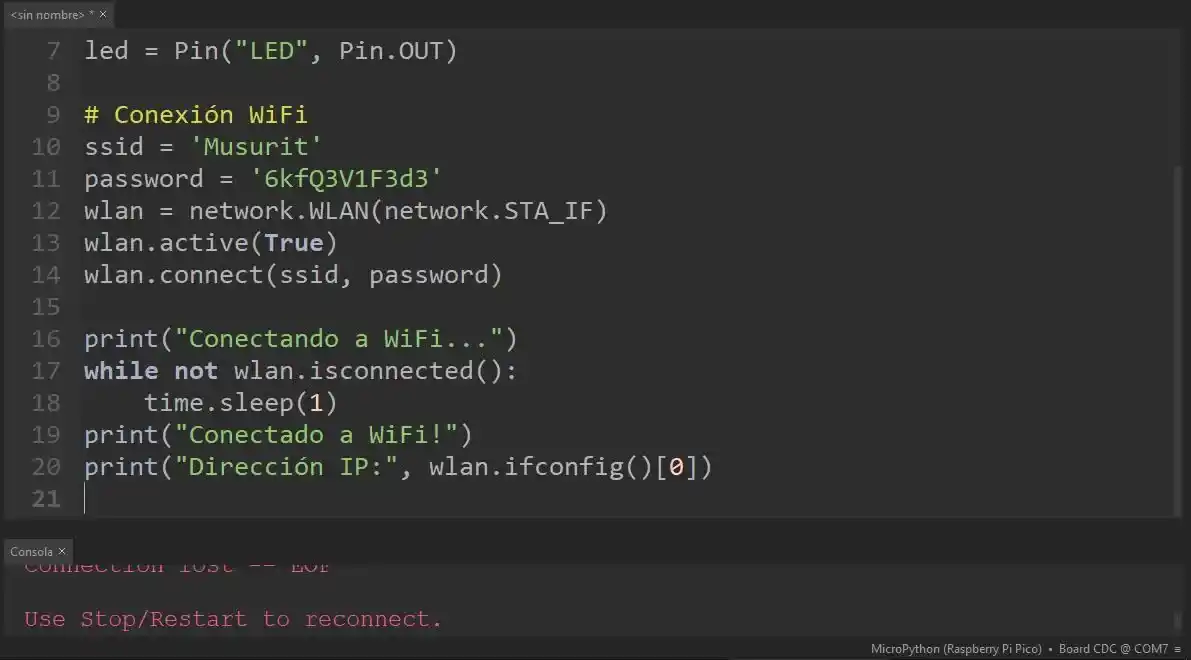
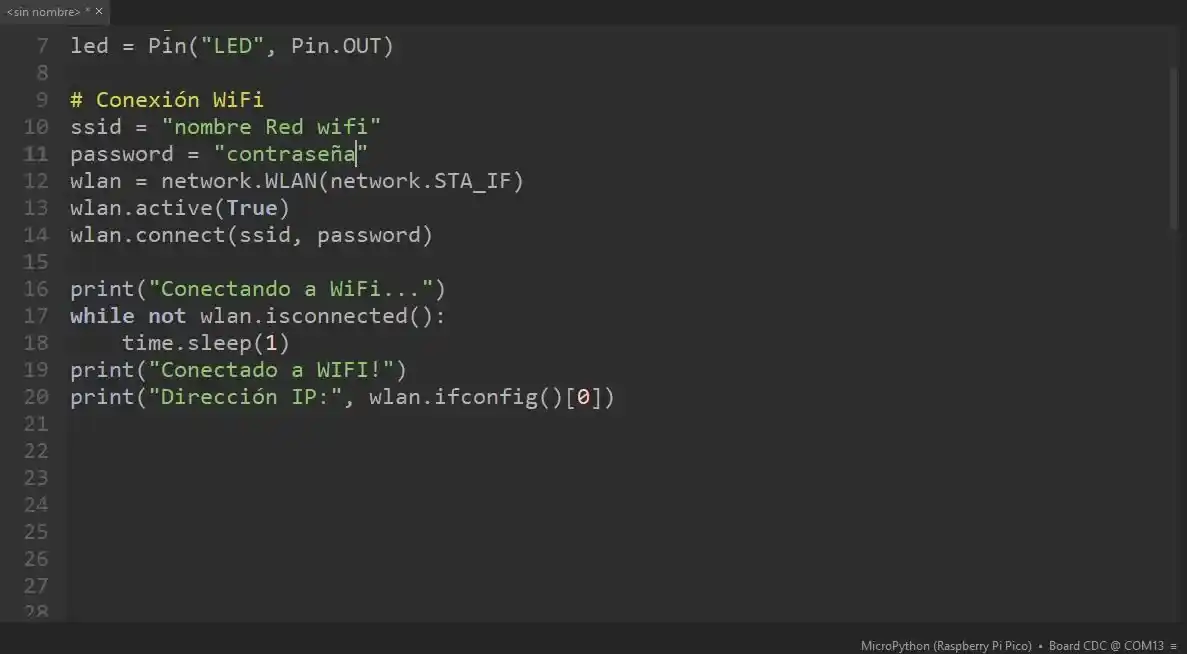
Change date on class loading2

diff --git a/src/components/MicropythonClass/MicropythonClass5.js b/src/components/MicropythonClass/MicropythonClass5.js
@@ -6,7 +6,7 @@ import { colorPrimaryMicropython } from '../../colors'
 import useScrollAnimation from '../../useScrollAnimation'
 import { CopyButton } from '../CopyButton/CopyButton'
 import { class4MCode, class5MCode } from './MicropythonClassCode'
-import { class3Code, class4Code, class5Code } from '../Class/classCode'
+import { class4Code } from '../Class/classCode'
 
 const MicropythonClass5 = () => {
 
@@ -155,13 +155,25 @@ const MicropythonClass5 = () => {
                                 </button>
                                 <div id="a4" className="accordion-collapse collapse bg-dark" >
                                     <div className="accordion-body text-light bg-dark ">
-                                        <p className="text-break mx-auto w-75">
-                                            Además de tener métodos para utilizar en listas, también tenemos funciones que nos ayudan a la hora de manipular datos.:
-                                        </p>
-                                        <h3 className="text-break w-75 mx-auto">len()</h3>
-                                        <p className="text-break mx-auto w-75">len() te devuelve la cantidad de elementos que contiene la lista.</p>
-                                        <CopyButton code={class5Code[12]} />
-                                        <img className="w-75 d-block mx-auto mb-4 border-content" alt="" src="../../img/class5/list13.webp"></img>
+                                        <h3 className="text-break w-75 mx-auto">Paso 1 - Importación de Librerias</h3>
+                                        <ul className="text-break mx-auto w-75 list-unstyled">
+                                            <li><p className="text-break mx-auto w-75"><span className="fw-bold">import network: </span>Permite gestionar la conexión WiFi de la Raspberry Pi Pico W.</p></li>
+                                        </ul>
+                                        <CopyButton code={class5MCode[0]} />
+                                        <img className="w-75 d-block mx-auto mb-4 border-content" alt="" src="../../img/class5Micropython/wifi1.webp"></img>
+                                        <h3 className="text-break w-75 mx-auto">Paso 2 - Activación del módulo wifi</h3>
+                                        <p className="text-break mx-auto w-75">Luego para inicializar la interfaz de la red wifi debemos utilizar network.WLAN(network.STA_IF) y luego indicarle que lo queremos activar(active(true))</p>
+                                        <CopyButton code={class5MCode[1]} />
+                                        <img className="w-75 d-block mx-auto mb-4 border-content" alt="" src="../../img/class5Micropython/wifi2.webp"></img>
+                                        <h3 className="text-break w-75 mx-auto">Paso 3 - Conexión de red wifi</h3>
+                                        <p className="text-break mx-auto w-75">Debemos hacer la conexión de la red wifi indicandole el nombre de la red wifi junto a la contraseña con el método connect().</p>
+                                        <CopyButton code={class5MCode[4]} />
+                                        <img className="w-75 d-block mx-auto mb-4 border-content" alt="" src="../../img/class5Micropython/wificonect6.webp"></img>
+                                        <h3 className="text-break w-75 mx-auto">Paso 4 - Verificación de conección a red wifi(IP)</h3>
+                                        <p className="text-break mx-auto w-75">Para saber si realmente hizo una conexion válida debemos crear un bucle while utilizando el método isconnected() para saber si está conectado o no, podemos utilizar la libreria time para esperar 1 segundo y volver a consultar la conexión.</p>
+                                        <p className="text-break mx-auto w-75">Si queremos saber la IP de nuestro dispositivo, debemos utilizar el método ifconfig()[0].</p>
+                                        <CopyButton code={class5MCode[5]} />
+                                        <img className="w-75 d-block mx-auto mb-4 border-content" alt="" src="../../img/class5Micropython/wificonect7.webp"></img>
                                     </div>
                                 </div>
                             </div>
@@ -179,14 +191,14 @@ const MicropythonClass5 = () => {
                                             <li><p className="text-break mx-auto w-75"><span className="fw-bold">import time: </span>Permite realizar pausas en el código.</p></li>
                                             <li><p className="text-break mx-auto w-75"><span className="fw-bold">from machine import Pin: </span>Permite controlar los pines GPIO de la Raspberry Pi Pico W, como el LED.</p></li>
                                         </ul>
-                                        <CopyButton code={class3Code[9]} />
+                                        <CopyButton code={class5MCode[6]} />
                                         <img className="w-75 d-block mx-auto mt-4 border-content" alt="" src="../../img/class5Micropython/wifipage.webp"></img>
                                         <h3 className="text-break mx-auto w-75 mt-4">Paso 2 - Configuración de puerto de entrada/salida(Raspberry pi pico)</h3>
                                         <p className="text-break mx-auto w-75 mt-4">En este caso simple voy a utilizar el Led interno de la raspberry pi pico para manipularlo.</p>
-                                        <CopyButton code={class3Code[10]} />
+                                        <CopyButton code={class5MCode[7]} />
                                         <img className="w-75 d-block mx-auto mt-4 border-content" alt="" src="../../img/class5Micropython/wifipage2.webp"></img>
                                         <h3 className="text-break mx-auto w-75 mt-4">Paso 3 - Conexion WIFI</h3>
-                                        <CopyButton code={class3Code[10]} />
+                                        <CopyButton code={class5MCode[8]} />
                                         <img className="w-75 d-block mx-auto mt-4 border-content" alt="" src="../../img/class5Micropython/wifipage3.webp"></img>
                                         <h3 className="text-break mx-auto w-75 mt-4">Paso 4 - Crear página web de control</h3>
                                         <ul className="text-break mx-auto w-75 list-unstyled">
@@ -195,15 +207,15 @@ const MicropythonClass5 = () => {
                                             <li><p className="text-break mx-auto w-75"><span className="fw-bold">Etiqueta a: </span>La etiqueta 'a' se utiliza para redireccionar a una ruta http.</p></li>
                                             <li><p className="text-break mx-auto w-75"><span className="fw-bold">Etiqueta Button: </span>Permite realizar la acción de un botón.</p></li>
                                         </ul>
-                                        <CopyButton code={class3Code[10]} />
+                                        <CopyButton code={class5MCode[9]} />
                                         <img className="w-75 d-block mx-auto mt-4 border-content" alt="" src="../../img/class5Micropython/wifipage4.webp"></img>
                                         <h3 className="text-break mx-auto w-75 mt-4">Paso 5 - Configuración del servidor</h3>
                                         <p className="text-break mx-auto w-75 mt-4">En este caso simple voy a utilizar el Led interno de la raspberry pi pico para manipularlo.</p>
-                                        <CopyButton code={class3Code[10]} />
+                                        <CopyButton code={class5MCode[10]} />
                                         <img className="w-75 d-block mx-auto mt-4 border-content" alt="" src="../../img/class5Micropython/wifipage5.webp"></img>
                                         <h3 className="text-break mx-auto w-75 mt-4">Paso 6 - Bucle principal para manejar solicitudes HTTP</h3>
                                         <p className="text-break mx-auto w-75 mt-4">En este caso simple voy a utilizar el Led interno de la raspberry pi pico para manipularlo.</p>
-                                        <CopyButton code={class3Code[10]} />
+                                        <CopyButton code={class5MCode[11]} />
                                         <img className="w-75 d-block mx-auto mt-4 border-content" alt="" src="../../img/class5Micropython/wifipage6.webp"></img>
                                     </div>
                                 </div>
@@ -211,41 +223,39 @@ const MicropythonClass5 = () => {
                             <div className="accordion accordion-flush w-100 mx-auto mt-4" id="accordionFlushExample">
                                 <div id="element7" className={`accordion-item animated-left ${elementVisibility.element7 ? 'slide-left' : ''}`} style={{ background: colorPrimaryMicropython, borderRadius: "40px" }} >
                                     <button className="accordion-button collapsed  bg-transparent text-light" type="button" data-bs-toggle="collapse" data-bs-target="#a6" aria-expanded="false" aria-controls="flush-collapseOne">
-                                        <h2>PWM</h2>
+                                        <h2>Utilización de Apis en raspberry pi pico w</h2>
                                     </button>
                                     <div id="a6" className="accordion-collapse collapse" >
                                         <div className="accordion-body text-light bg-dark ">
-                                            <h3 className="mt-7 text-break mx-auto w-75 fw-bold">¿Qué es PWM?</h3>
-                                            <p className="text-break mx-auto w-75 mt-4">PWM (Modulación por Ancho de Pulso) es una técnica utilizada para controlar la potencia entregada a dispositivos electrónicos. En lugar de aplicar un voltaje constante, PWM alterna rápidamente entre encendido y apagado, lo que permite simular un voltaje variable.</p>
-                                            <p className="text-break mx-auto w-75 mt-4">En PWM solo tenemos 2 estados, HIGH(3.3V - alto) y LOW(0V - bajo).</p>
-                                            <p className="text-break mx-auto w-75 mt-4">Dentro del gráfico veremos también "ciclo de trabajo"(duty cycle), es un concepto fundamental en PWM (modulación por ancho de pulso), que se refiere al porcentaje de tiempo que una señal está en estado alto (encendida) durante un ciclo completo de la señal.</p>
-                                            <p className="text-break mx-auto w-75 mt-4">El valor máximo del ciclo de trabajo(duty cycle) que tiene internamente un potenciometro es de "65535", esto es porque está en 16bits y la cantidad de valores que puede procesar son 65536(es uno más porque se incluye el 0 como valor)</p>
-                                            <p className="text-break mx-auto w-75 mt-4">Ejemplo: Si una señal PWM tiene un duty cycle del 50%(65535/2 = 32768), significa que la señal está activa (en alto) el 50% del tiempo y en bajo el otro 50%, Si el duty cycle es del 25% (65535/4 = 16383), la señal estará activa solo el 25% del tiempo y en bajo el 75%.</p>
-                                            <img className="w-75 mx-auto d-block border-content" alt="" src="../../img/class4Micropython/PWM.webp"></img>
-                                            <h3 className="mt-7 text-break mx-auto w-75 fw-bold">Frecuencia</h3>
-                                            <p className="text-break mx-auto w-75 mt-4">La frecuencia en el contexto de PWM (modulación por ancho de pulso) se refiere a la cantidad de ciclos completos que ocurren en un segundo. Se mide en hercios (Hz), donde 1 Hz equivale a un ciclo completo por segundo.</p>
-                                            <p className="text-break mx-auto w-75 mt-4">Ejemplo: Si la frecuencia es 1 Hz, entonces el ciclo completo (tiempo en alto más tiempo en bajo) ocurre una vez por segundo, Si la frecuencia es 1000 Hz (1 kHz), el ciclo completo ocurre 1000 veces en un segundo.</p>
-                                            <img className="w-75 mx-auto d-block border-content" alt="" src="../../img/class4Micropython/Hz.webp"></img>
-                                            <h3 className="mt-7 text-break mx-auto w-75 fw-bold">Relación entre Frecuencia y Duty Cycle</h3>
-                                            <ul className="text-break mx-auto w-75 list-unstyled"><span>Es importante entender que, aunque el duty cycle y la frecuencia son conceptos distintos, ambos determinan el comportamiento de la señal PWM:</span>
-                                                <li><p className="text-break mx-auto w-75"><span className="fw-bold">Duty cycle: </span>controla el tiempo que la señal está activa dentro de cada ciclo.</p></li>
-                                                <li><p className="text-break mx-auto w-75"><span className="fw-bold">Frecuencia: </span>determina cuántos ciclos ocurren por segundo.</p></li>
-                                            </ul>
-                                            <p className="text-break mx-auto w-75 mt-4">Por ejemplo, si tienes una señal PWM con una frecuencia de 1 kHz (1000 ciclos por segundo) y un duty cycle del 50%, la señal estará en estado alto durante 0.5 ms (milisegundos) y en estado bajo durante otros 0.5 ms en cada ciclo. Si aumentas la frecuencia, los ciclos serán más rápidos, pero el tiempo que la señal permanece en alto y bajo por ciclo también será menor.</p>
-                                            <h3 className="mt-7 text-break mx-auto w-75 fw-bold">Importancia de la frecuencia en PWM</h3>
-                                            <ul className="text-break mx-auto w-75 list-unstyled"><span>La frecuencia del PWM es clave en aplicaciones como el control de motores y el brillo de LEDs:</span>
-                                                <li><p className="text-break mx-auto w-75"><span className="fw-bold">Motores eléctricos: </span>Si la frecuencia es demasiado baja, el motor puede vibrar o producir un zumbido debido a la conmutación lenta. Por eso, frecuencias más altas (a menudo en el rango de kHz) se usan para controlar motores de manera más suave.</p></li>
-                                                <li><p className="text-break mx-auto w-75"><span className="fw-bold">Control de brillo de LEDs: </span> Si la frecuencia es baja, el LED puede parpadear perceptiblemente, lo que es indeseable. A frecuencias más altas, el parpadeo se vuelve imperceptible, logrando una variación suave en el brillo.</p></li>
-                                            </ul>
+                                            <h3 className="mt-7 text-break mx-auto w-75 fw-bold">Paso 1 conexión a la red wifi</h3>
+                                            <p className="text-break mx-auto w-75 mt-4">Como hicimos en los temas anteriores tenemos que activar el módulo WIFI de la raspberry pi pico y luego conectarnos a la red wifi</p>
+                                            <CopyButton code={class5MCode[5]} />
+                                            <img className="w-75 d-block mx-auto mb-4 border-content" alt="" src="../../img/class5Micropython/wificonect7.webp"></img>
+                                            <h3 className="mt-7 text-break mx-auto w-75 fw-bold">Paso 2 importar urequests</h3>
+                                            <p className="text-break mx-auto w-75 mt-4">La importación de la libreria urequests nos servirá para poder hacer una solicitud HTTP</p>
+                                            <CopyButton code={class5MCode[12]} />
+                                            <img className="w-75 d-block mx-auto mb-4 border-content" alt="" src="../../img/class5Micropython/apiweather.webp"></img>
+                                            <h3 className="mt-7 text-break mx-auto w-75 fw-bold">Paso 3 Realizar solicitud HTTP</h3>
+                                            <p className="text-break mx-auto w-75 mt-4">Para poder hacer una solicitud HTTP debemos utilizar el método .get() dentro del parámetro ingresar la URL que queramos solicitar.</p>
+                                            <p className="text-break mx-auto w-75 mt-4">Dentro de la URL ("https://api.open-meteo.com/v1/forecast?latitude=35.68&longitude=139.69&current_weather=true") en "latitude" y "Longitude" debemos indicar la ubicación especifica donde queramos saber la t°.</p>
+                                            <CopyButton code={class5MCode[13]} />
+                                            <img className="w-75 d-block mx-auto mb-4 border-content" alt="" src="../../img/class5Micropython/apiweather2.webp"></img>
+                                            <h3 className="mt-7 text-break mx-auto w-75 fw-bold">Paso 4 Consumo de Api</h3>
+                                            <p className="text-break mx-auto w-75 mt-4">Para saber si la solicitud fué exitosa, debemos utilizar el método .status_code(), si este método devuelve 200, quiere indicar que el pedido fué exitoso.</p>
+                                            <p className="text-break mx-auto w-75 mt-4">Luego este pedido lo debemos transformar en un formato que podamos manipular, en este caso es un formato JSON, para transformarlo debemos utilizar el método .JSON()</p>
+                                            <p className="text-break mx-auto w-75 mt-4">Esta solicitud queda abierto cuando se llama una solicitud, para finalizar el llamado debemos utilizar el método .close()</p>
+                                            <CopyButton code={class5MCode[14]} />
+                                            <img className="w-75 d-block mx-auto mb-4 border-content" alt="" src="../../img/class5Micropython/apiweather3.webp"></img>
                                         </div>
                                     </div>
                                 </div>
                                 <div id="element8" className={`accordion-item animated-left mt-4 ${elementVisibility.element8 ? 'slide-left' : ''}`} style={{ background: colorPrimaryMicropython, borderRadius: "40px" }} >
                                     <button className="accordion-button collapsed  bg-transparent text-light" type="button" data-bs-toggle="collapse" data-bs-target="#a7" aria-expanded="false" aria-controls="flush-collapseOne">
-                                        <h2>Potenciometro</h2>
+                                        <h2>Comunicación entre raspberry pi pico w</h2>
                                     </button>
                                     <div id="a7" className="accordion-collapse collapse" >
                                         <div className="accordion-body text-light bg-dark ">
+                                            <h3 className="mt-7 text-break mx-auto w-75 fw-bold">RP pico W(1) - Paso 1 conexión a la red wifi</h3>
                                             <h3 className="mt-7 text-break mx-auto w-75 fw-bold">Potenciometro en Raspberry pi pico w (potenciometro)</h3>
                                             <p className="text-break mx-auto w-75 mt-4">Para poder utilizar un Potenciometro debemos utilizar desde la libreria "machine" la clase "ADC"</p>
                                             <CopyButton code={class4MCode[0]} />

diff --git a/src/components/MicropythonClass/MicropythonClassCode.js b/src/components/MicropythonClass/MicropythonClassCode.js
@@ -40,7 +40,18 @@ export const class5MCode = [
 `import network`,
 `import network\n\n# Inicializa la interfaz de red en modo estación\nwlan = network.WLAN(network.STA_IF)\nwlan.active(True)\n`,
 `import network\n\n# Inicializa la interfaz de red en modo estación\nwlan = network.WLAN(network.STA_IF)\nwlan.active(True)\n\n# Escanea las redes Wi-Fi disponibles\nprint("Escaneando redes Wi-Fi...")\nnetworks = wlan.scan()\n`,
-`import network\n\n# Inicializa la interfaz de red en modo estación\nwlan = network.WLAN(network.STA_IF)\nwlan.active(True)\n\n# Escanea las redes Wi-Fi disponibles\nprint("Escaneando redes Wi-Fi...")\nnetworks = wlan.scan()\n\n# Muestra las redes encontradas\n# usamos *_ para omitir datos que no nos interesa de la tupla\nfor ssid, *_ in networks:\n    # Decodifica el SSID de bytes a cadena\n    print("Red encontrada:", ssid.decode('utf-8'))\n\n    # Desactiva la interfaz después del escaneo\nwlan.active(False)\n`
+`import network\n\n# Inicializa la interfaz de red en modo estación\nwlan = network.WLAN(network.STA_IF)\nwlan.active(True)\n\n# Escanea las redes Wi-Fi disponibles\nprint("Escaneando redes Wi-Fi...")\nnetworks = wlan.scan()\n\n# Muestra las redes encontradas\n# usamos *_ para omitir datos que no nos interesa de la tupla\nfor ssid, *_ in networks:\n    # Decodifica el SSID de bytes a cadena\n    print("Red encontrada:", ssid.decode('utf-8'))\n\n    # Desactiva la interfaz después del escaneo\nwlan.active(False)\n`,
+`import network\n\n# Inicializa la interfaz de red en modo estación\nwlan = network.WLAN(network.STA_IF)\nwlan.active(True)\n\nssid = "nombre Red wifi"\npassword = "contraseña"\nwlan.connect(ssid,password)`,
+`import network\nimport time\n# Inicializa la interfaz de red en modo estación\nwlan = network.WLAN(network.STA_IF)\nwlan.active(True)\n\nssid = "nombre Red wifi"\npassword = "contraseña"\nwlan.connect(ssid,password)\n\nwhile not wlan.isconnected():\n    time.sleep(1)\n\n\nprint("Conectado a la red Wifi")\nprint(f"Dirección IP:{wlan.ifconfig()[0]}")`,
+`import network\nimport socket\nimport time\nfrom machine import Pin`,
+`import network\nimport socket\nimport time\nfrom machine import Pin\n\n# Configuración del LED\nled = Pin("LED", Pin.OUT)`,
+`import network\nimport socket\nimport time\nfrom machine import Pin\n\n# Configuración del LED\nled = Pin("LED", Pin.OUT)\n\n# Conexión WiFi\nssid = "Red wifi"\npassword = "contraseña"\nwlan = network.WLAN(network.STA_IF)\nwlan.active(True)\nwlan.connect(ssid, password)\n\nprint("Conectando a WiFi...")\nwhile not wlan.isconnected():\n    time.sleep(1)\nprint("Conectado a WIFI!")\nprint("Dirección IP:", wlan.ifconfig()[0])`,
+`import network\nimport socket\nimport time\nfrom machine import Pin\n\n# Configuración del LED\nled = Pin("LED", Pin.OUT)\n\n# Conexión WiFi\nssid = "Red wifi"\npassword = "contraseña"\nwlan = network.WLAN(network.STA_IF)\nwlan.active(True)\nwlan.connect(ssid, password)\n\nprint("Conectando a WiFi...")\nwhile not wlan.isconnected():\n    time.sleep(1)\nprint("Conectado a WIFI!")\nprint("Dirección IP:", wlan.ifconfig()[0])\n\n# Función para crear la página web de control\ndef web_page():\n    led_state = "ENCENDIDO" if led.value() else "APAGADO"\n\n    html = """<!DOCTYPE html>\n<html>\n    <head>\n        <title>Control de LED</title>\n        <meta name="viewport" content="width=device-width, initial-scale=1">\n    </head>\n    <body style="text-align:center; font-family: Arial;">\n        <h1>Control de LED</h1>\n        <p>Estado del LED: <strong>{}</strong></p>\n        <p><a href="/?led=on"><button style="font-size:20px;">Encender</button></a></p>        <p><a href="/?led=off"><button style="font-size:20px;">Apagar</button></a></p>\n    </body>\n</html>""".format(led_state)\n    return html`,
+`import network\nimport socket\nimport time\nfrom machine import Pin\n\n# Configuración del LED\nled = Pin("LED", Pin.OUT)\n\n# Conexión WiFi\nssid = "Red wifi"\npassword = "contraseña"\nwlan = network.WLAN(network.STA_IF)\nwlan.active(True)\nwlan.connect(ssid, password)\n\nprint("Conectando a WiFi...")\nwhile not wlan.isconnected():\n    time.sleep(1)\nprint("Conectado a WIFI!")\nprint("Dirección IP:", wlan.ifconfig()[0])\n\n# Función para crear la página web de control\ndef web_page():\n    led_state = "ENCENDIDO" if led.value() else "APAGADO"\n\n    html = """<!DOCTYPE html>\n<html>\n    <head>\n        <title>Control de LED</title>\n        <meta name="viewport" content="width=device-width, initial-scale=1">\n    </head>\n    <body style="text-align:center; font-family: Arial;">\n        <h1>Control de LED</h1>\n        <p>Estado del LED: <strong>{}</strong></p>\n        <p><a href="/?led=on"><button style="font-size:20px;">Encender</button></a></p>        <p><a href="/?led=off"><button style="font-size:20px;">Apagar</button></a></p>\n    </body>\n</html>""".format(led_state)\n    return html\n\n# Configuración del socket\naddr = socket.getaddrinfo('0.0.0.0', 8080)[0][-1]\ns = socket.socket()\ns.bind(addr)\ns.listen(1)\nprint("Servidor iniciado en http://{}:8080".format(wlan.ifconfig()[0]))`,
+`import network\nimport socket\nimport time\nfrom machine import Pin\n\n# Configuración del LED\nled = Pin("LED", Pin.OUT)\n\n# Conexión WiFi\nssid = "Red wifi"\npassword = "contraseña"\nwlan = network.WLAN(network.STA_IF)\nwlan.active(True)\nwlan.connect(ssid, password)\n\nprint("Conectando a WiFi...")\nwhile not wlan.isconnected():\n    time.sleep(1)\nprint("Conectado a WIFI!")\nprint("Dirección IP:", wlan.ifconfig()[0])\n\n# Función para crear la página web de control\ndef web_page():\n    led_state = "ENCENDIDO" if led.value() else "APAGADO"\n\n    html = """<!DOCTYPE html>\n<html>\n    <head>\n        <title>Control de LED</title>\n        <meta name="viewport" content="width=device-width, initial-scale=1">\n    </head>\n    <body style="text-align:center; font-family: Arial;">\n        <h1>Control de LED</h1>\n        <p>Estado del LED: <strong>{}</strong></p>\n        <p><a href="/?led=on"><button style="font-size:20px;">Encender</button></a></p>        <p><a href="/?led=off"><button style="font-size:20px;">Apagar</button></a></p>\n    </body>\n</html>""".format(led_state)\n    return html\n\n# Configuración del socket\naddr = socket.getaddrinfo('0.0.0.0', 8080)[0][-1]\ns = socket.socket()\ns.bind(addr)\ns.listen(1)\nprint("Servidor iniciado en http://{}:8080".format(wlan.ifconfig()[0]))\n\n# Bucle principal para manejar las solicitudes\ntry:\n    while True:\n        conn,addr = s.accept()\n        print("Conexión desde:", addr)\n\n        # Leer la solicitud HTTP\n        request =conn.recv(1024)\n        request = str(request)\n        print("Solicitud:", request)\n\n        # Comprobar si el cliente quiere encender o apagar el LED\n        if "/?led=on" in request:\n            led.value(1)\n        elif "/?led=off" in request:\n            led.value(0)\n\n        # Enviar respuesta HTML\n        response = web_page()\n        conn.send("HTTP/1.1 200 OK\\r\\nContent-Type: text/html\\r\\n\\r\\n")\n        conn.send(response)\n        conn.close()\n\nexcept KeyboardInterrupt:\n    print("Servidor detenido")\n    s.close()`,
+`import urequests\nimport network\nimport time\n\nwlan = network.WLAN(network.STA_IF)\nwlan.active(True)\n\nssid = "nombre Red wifi"\npassword = "contraseña"\nwlan.connect(ssid,password)\n\nwhile not wlan.isconnected():\n    time.sleep(1)\n\n\nprint("Conectado a la red Wifi")\nprint(f"Dirección IP:{wlan.ifconfig()[0]}")\n\n`,
+`import urequests\nimport network\nimport time\n\nwlan = network.WLAN(network.STA_IF)\nwlan.active(True)\n\nssid = "nombre Red wifi"\npassword = "contraseña"\nwlan.connect(ssid,password)\n\nwhile not wlan.isconnected():\n    time.sleep(1)\n\n\nprint("Conectado a la red Wifi")\nprint(f"Dirección IP:{wlan.ifconfig()[0]}")\n\nresponse = urequests.get(f"https://api.open-meteo.com/v1/forecast?latitude=35.68&longitude=139.69&current_weather=true")`,
+`import urequests\nimport network\nimport time\n\nwlan = network.WLAN(network.STA_IF)\nwlan.active(True)\n\nssid = "nombre Red wifi"\npassword = "contraseña"\nwlan.connect(ssid,password)\n\nwhile not wlan.isconnected():\n    time.sleep(1)\n\n\nprint("Conectado a la red Wifi")\nprint(f"Dirección IP:{wlan.ifconfig()[0]}")\n\nresponse = urequests.get(f"https://api.open-meteo.com/v1/forecast?latitude=35.68&longitude=139.69&current_weather=true")\nif response.status_code == 200:\n    data = response.json()\n    temperatura = data['current_weather']['temperature']\n    print("Temperatura actual:", temperatura, "°C")`,
 ]
 
 export const class6MCode = [

diff --git a/src/components/Sidebar/Sidebar.js b/src/components/Sidebar/Sidebar.js
@@ -1,0 +1,72 @@
+import React, { useEffect } from 'react';
+import { useLocation } from 'react-router-dom';
+
+export const Sidebar = () => {
+    const location = useLocation();
+    const sidebarState = location.pathname.includes("micropython/classes/");
+
+    useEffect(() => {
+        const modal = document.getElementById("exampleModal");
+        if (modal) {
+            modal.classList.remove("show");
+            modal.style.display = "none";
+            modal.setAttribute("aria-hidden", "true");
+            document.body.classList.remove("modal-open");
+            document.body.style.overflow = "";
+        }
+    }, [location.pathname]);
+
+    return (
+        <>
+            {sidebarState ? (
+                <>
+                    <div className="container mt-5">
+                        <button
+                            type="button"
+                            className="button-sidebar"
+                            data-bs-toggle="modal"
+                            data-bs-target="#exampleModal"
+                        >
+                            Puertos RPPW
+                        </button>
+                    </div>
+                    <div
+                        className="modal"
+                        id="exampleModal"
+                        aria-labelledby="exampleModalLabel"
+                        aria-hidden="true"
+                        style={{ display: 'none' }}
+                    >
+                        <div className="modal-dialog">
+                            <div className="sidebar">
+                                <div className="modal-header">
+                                    <h3
+                                        className="text-center mx-auto w-75 fw-bold"
+                                        id="exampleModalLabel"
+                                    >
+                                        Puertos de Raspberry Pi Pico W
+                                    </h3>
+                                    <button
+                                        type="button"
+                                        className="btn-close"
+                                        data-bs-dismiss="modal"
+                                        aria-label="Close"
+                                    ></button>
+                                </div>
+                                <div className="modal-body">
+                                    <img
+                                        className="d-block mx-auto w-100"
+                                        alt=""
+                                        src="../../img/class1Micropython/picow_sidebar.jpg"
+                                    />
+                                </div>
+                            </div>
+                        </div>
+                    </div>
+                </>
+            ) : null}
+        </>
+    );
+};
+
+export default Sidebar;

diff --git a/src/App.js b/src/App.js
@@ -35,11 +35,13 @@ const Contact = lazy(() => import('./components/Contact/Contact'));
 const ProfessionalCareer = lazy(() => import('./components/ProfessionalCareer/ProfessionalCareer'));
 const DigitalPortfolio = lazy(() => import('./components/DigitalPortfolio/DigitalPortfolio'));
 const VirtualAssistance = lazy(()=> import('./components/VirtualAssistant/VirtualAssistant'))
+const Sidebar = lazy(()=> import('./components/Sidebar/Sidebar'))
 
 function App() {
   return (
     <BrowserRouter>
-      <Navbar />
+      <Navbar/>
+      <Sidebar/>
       <VirtualAssistance/>
       <Suspense fallback={<div>Loading...</div>}>
       <Routes>
@@ -82,7 +84,6 @@ function App() {
         <Route path="/pythonKids/contact" element={<Contact/>} />
         <Route path="/github/classes" element={<Classes/>} />
         <Route path="/github/classes/26FRYWt99U3HPuaCfGky" element={<GithubClass1 />} />
-        {/* <Route path="/microPython/github" element={<Github/>} /> */}
         <Route path="/professionalCarrer" element={<ProfessionalCareer/>}/>
         <Route path="/digitalPortfolio" element={<DigitalPortfolio/>}/>
       </Routes>

diff --git a/src/App.css b/src/App.css
@@ -398,6 +398,43 @@ h6 {
 }
 
 /*--------------------------------------------------------------
+# Sidebar
+--------------------------------------------------------------*/
+.button-sidebar{
+  font-size: 16px;
+  z-index: 13;
+  position: fixed;
+  top: 50vh;
+  left: 96vw;
+  width:40px;
+  height:150px;
+  writing-mode: vertical-lr;
+  background: rgb(238, 112, 83);
+  border: 1px solid rgb(179, 66, 41);
+  border-top-left-radius: 20px;
+  border-bottom-left-radius: 20px;
+  color: white; 
+}
+.sidebar {
+  position: relative;
+  pointer-events: none;
+  background-color: white;
+  border-radius: 10px;
+}
+@media (min-width: 576px){
+  .modal-dialog {
+    max-width: 60vw;
+    margin: 1.75rem auto;
+  }
+}
+@media (max-width: 576px){
+  .modal-dialog {
+    max-width: 90vw;
+    margin-left: 5vw;
+    margin-top: 30vh
+  }
+}
+/*--------------------------------------------------------------
 # Hero Section
 --------------------------------------------------------------*/
 #hero {

diff --git a/src/components/Classes/Classes.js b/src/components/Classes/Classes.js
@@ -52,7 +52,7 @@ const Classes = () => {
             const currentDate = new Date();
             console.log(savedCourse)
             if ((currentDate - firstDate) <= 1
-        //   4742590612
+            // 4742590612
         ) {
                 setCourse(parsedDates);  
             } else {
